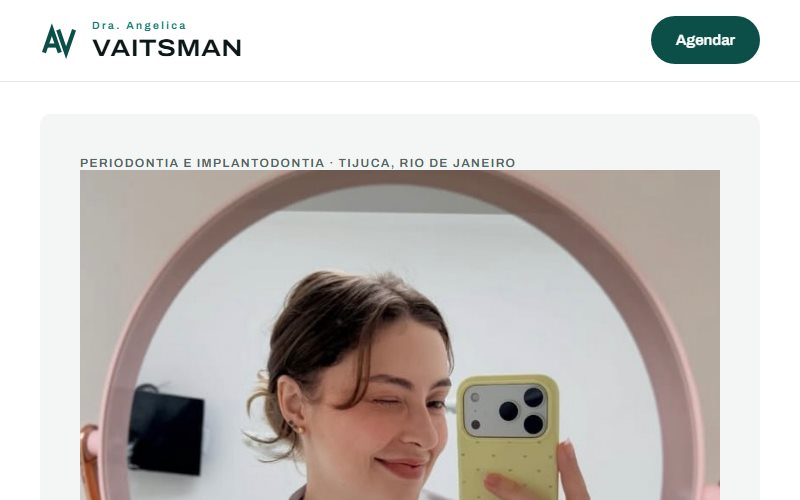
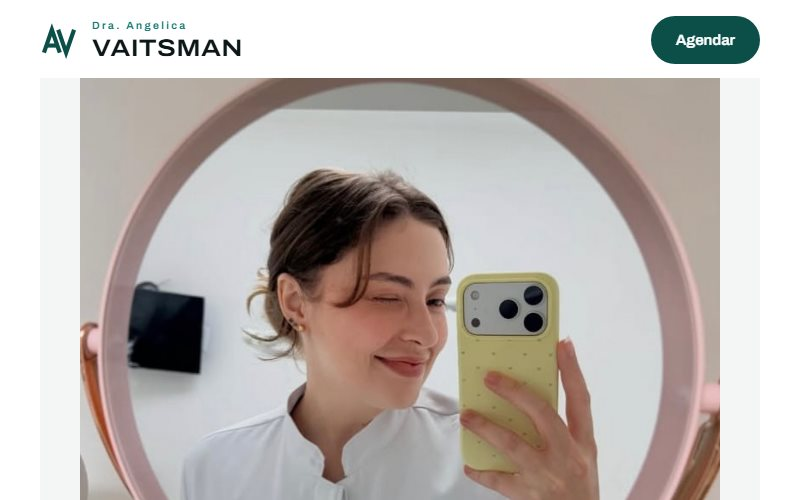
Atualiza os prints da seção Trabalhos pra versão atual de cada site
Refaz os 4 screenshots direto dos sites publicados na Vercel. O
Hospital dos Animais passou por um redesign completo (tema verde,
selo "Atendemos todos os dias", novo header) que não estava refletido
no print antigo. Odonto Diagnóstico, Angelica Vaitsman e Vila Odonto
seguem com o mesmo conteúdo, mas os prints foram atualizados e
reenquadrados igual pra manter consistência.

diff --git a/index.html b/index.html
@@ -257,7 +257,7 @@
           <span class="obra-pontos" aria-hidden="true"><span></span><span></span><span></span></span>
           <span class="obra-endereco"><span class="ao-vivo" aria-hidden="true"></span>hospital-dos-animais.vercel.app</span>
         </div>
-        <div class="tela"><img src="assets/img/hospital-dos-animais.webp" alt="P&aacute;gina inicial do projeto Hospital dos Animais" loading="lazy" decoding="async" width="800" height="500"></div>
+        <div class="tela"><img src="assets/img/hospital-dos-animais.jpg" alt="P&aacute;gina inicial do projeto Hospital dos Animais" loading="lazy" decoding="async" width="800" height="500"></div>
         <div class="corpo">
           <div class="mono cat">Site &middot; Sa&uacute;de animal</div>
           <h3>Hospital dos Animais</h3>
